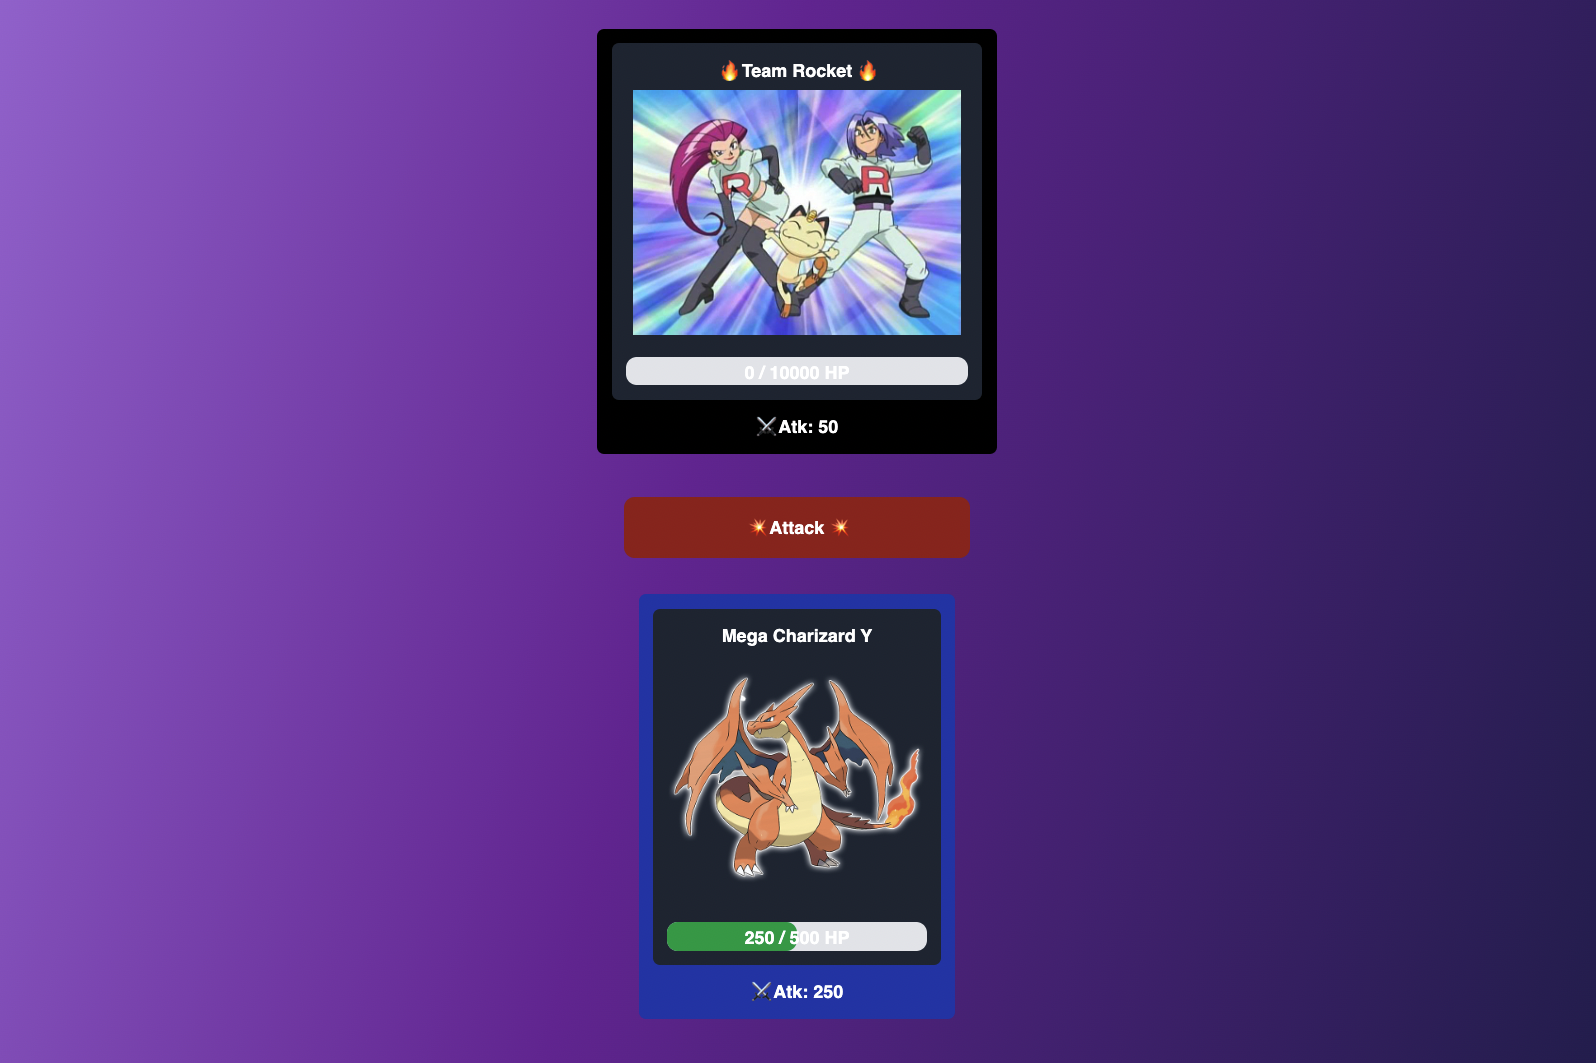
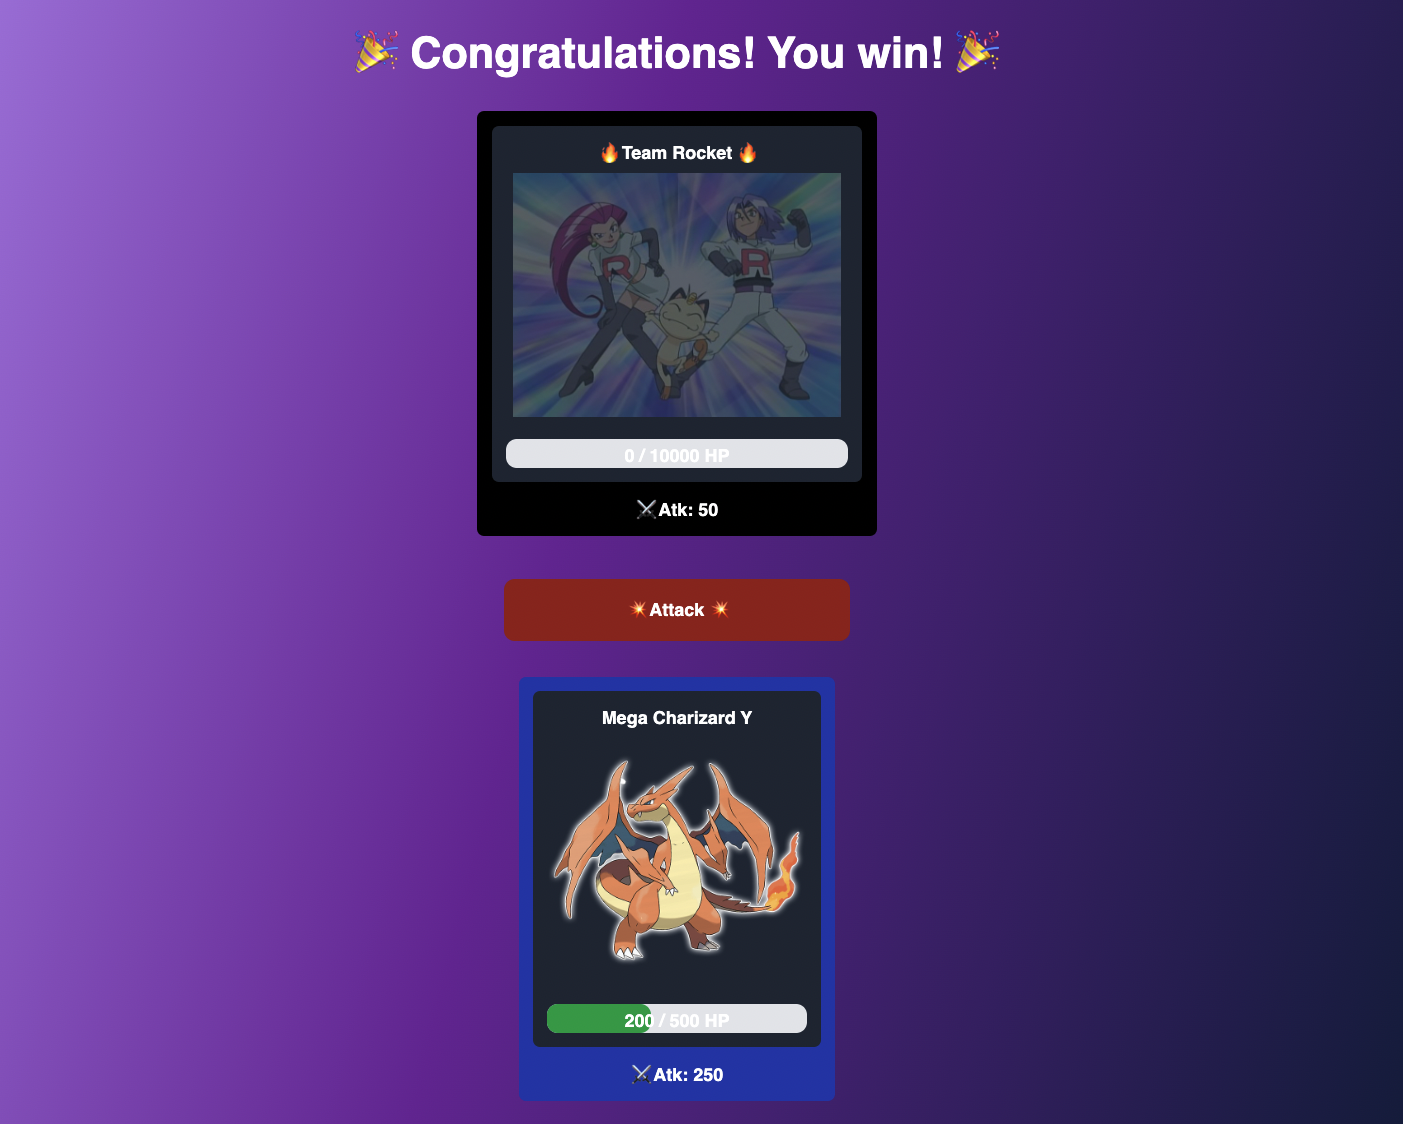
update README.md for v2 contract

Changed region(s): [[0.2452, 0.0, 0.7049, 0.9934]]

diff --git a/README.md b/README.md
@@ -1,9 +1,9 @@
 # NFT Turn-Based Card Game
 
 - See [website](https://nft-turn-based-card-game.vercel.app/)
-- Contract Address: `0x208F0A6500DDf63E959E2B933C16Bdf7e19e26D9`
+- Contract Address: [0x5E322636F837A38e16D6F202e10629AAcECA258c](https://rinkeby.etherscan.io/address/0x5E322636F837A38e16D6F202e10629AAcECA258c#code)
 - This project is a card-based nft game inspired by [@buildspace](https://app.buildspace.so/)
-- Built with `solidity` `brownie` `react` `javascript`
+- Built with `solidity` `brownie` `react` `javascript` `ethers` `tailwindcss`
 
 ## How to play
 
@@ -12,3 +12,9 @@
 
 - fight the boss, the boss has a very high Hp, so let's help defeat him together.
   ![attackBoss](attackBoss.png)
+
+- Revive character if it dies
+  ![revivePic](revivePic.png)
+
+- You guys win when boss is dead
+  ![bossDead](bossDead.png)
